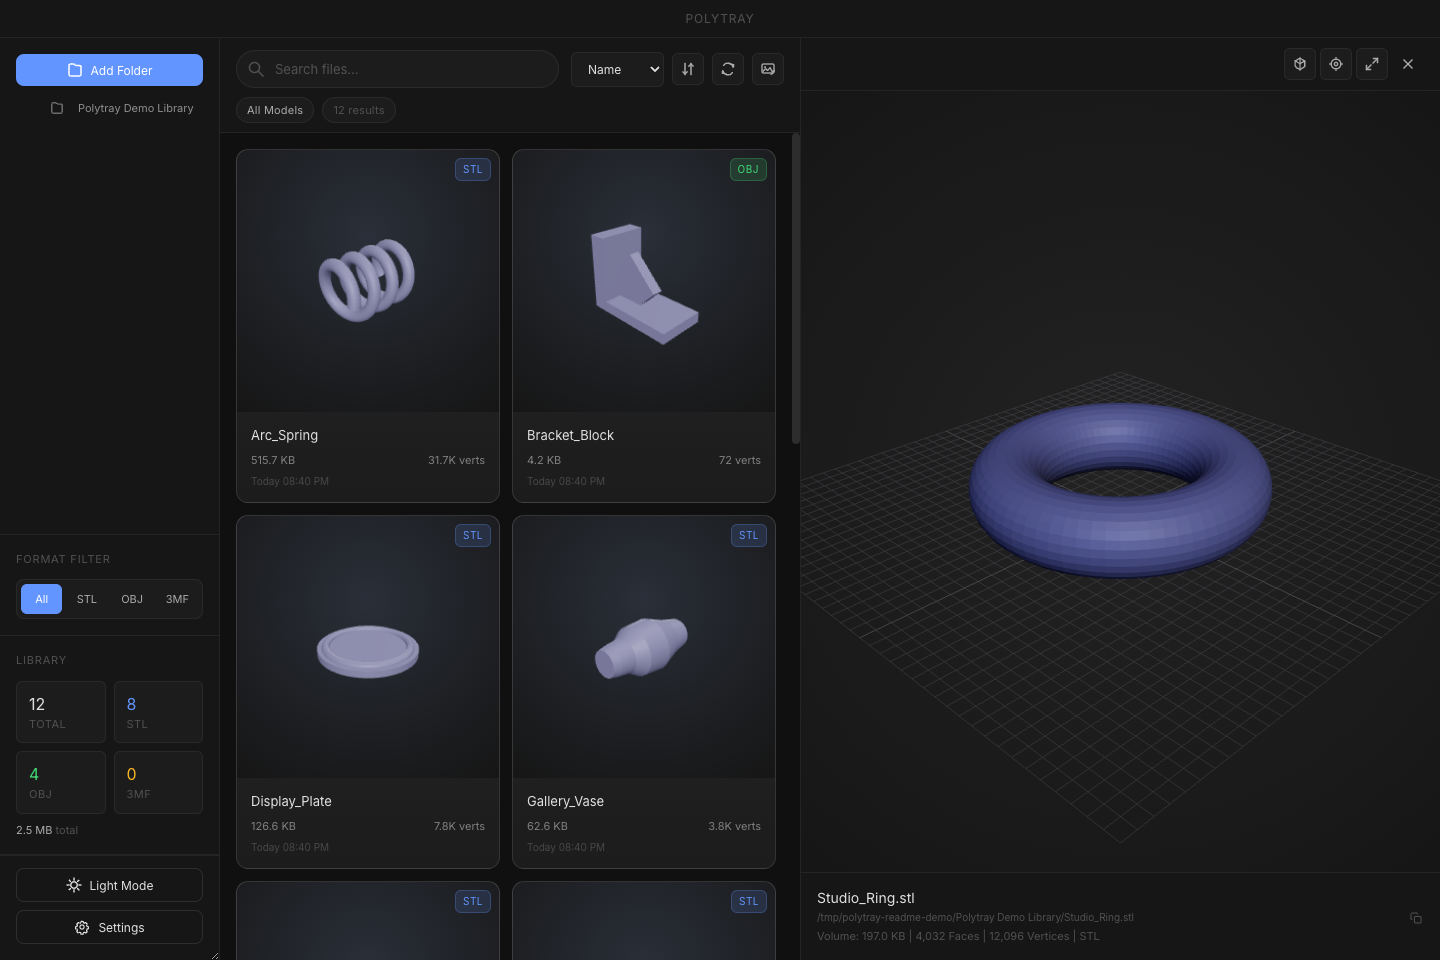
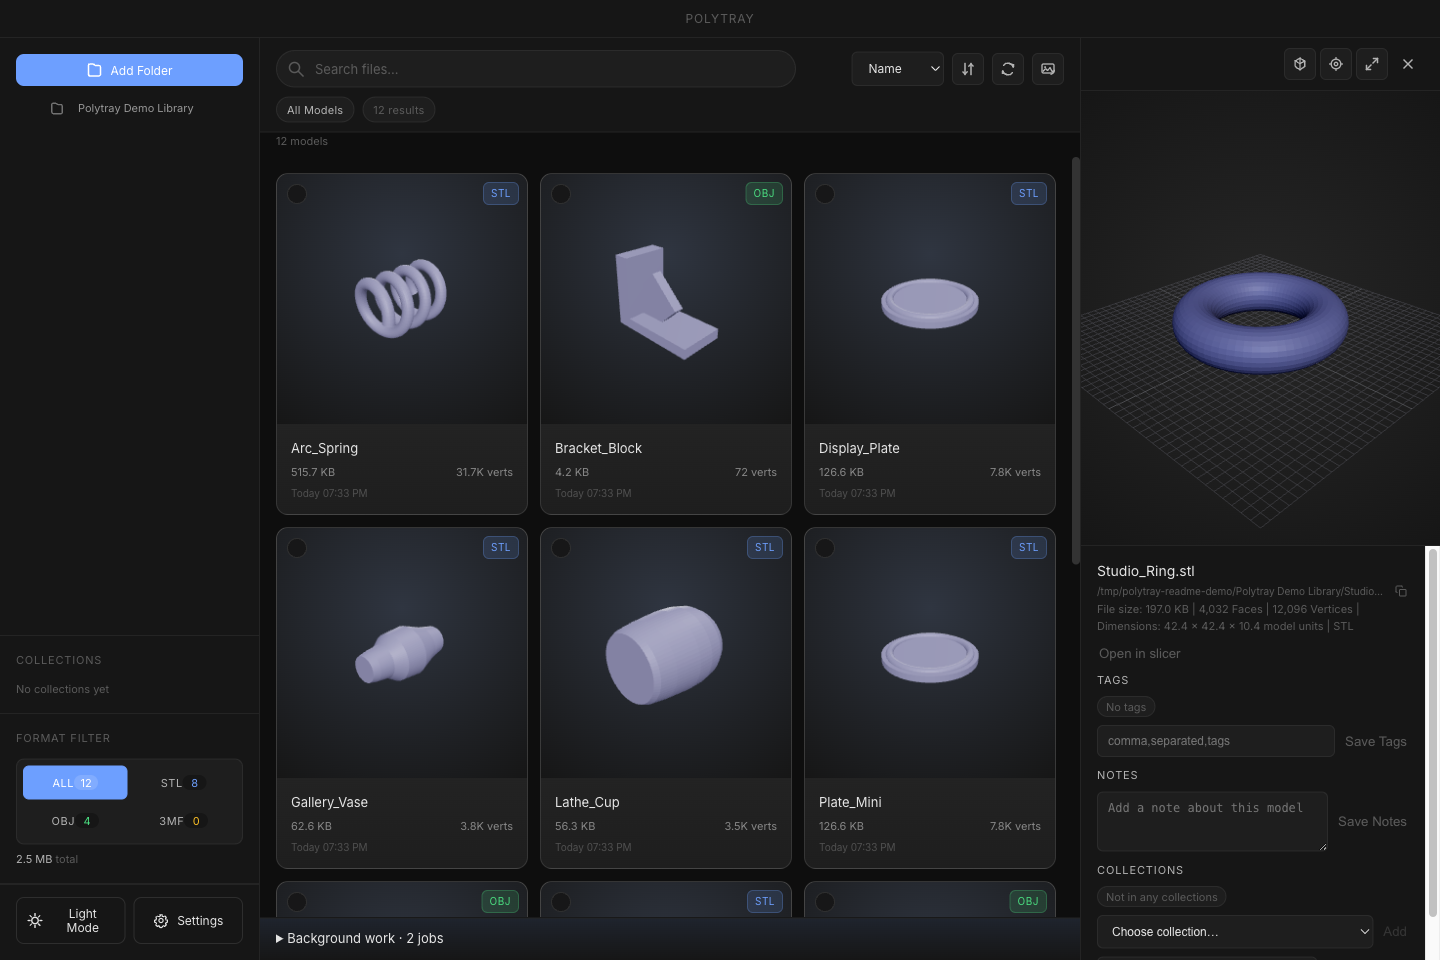
release: prepare Polytray 1.2.0 and refresh demo media

diff --git a/docs/release-notes/v1.2.0.md b/docs/release-notes/v1.2.0.md
@@ -1,0 +1,70 @@
+# Polytray v1.2.0
+
+This release makes large local model libraries more complete to browse, safer to
+maintain and easier to control. It adds background job controls, portable metadata
+backup and restore, and explicit handoff to a local slicer.
+
+## New workflows
+
+- **Background job controls:** inspect scan and thumbnail progress, pause or resume
+  supported jobs, cancel unfinished work, retry failures and dismiss finished jobs.
+  Discovery, indexing and thumbnail completion have separate progress indicators.
+- **Metadata backup and restore:** export annotations, collections, library roots
+  and supported preferences to a portable JSON file. Preview imports and conflicts
+  before applying them. Unmatched annotations remain pending for later matching.
+  Restore uses a recovery journal to complete interrupted committed changes.
+- **Local slicer handoff:** choose a local slicer or explicitly use the system
+  default. Open a selected supported model or an individual ZIP member, with clear
+  preparation and failure states.
+
+## Library browsing and scanning
+
+- Browse matching models beyond the previous first-page limit. Filtering, sorting,
+  collections, counts and archive grouping operate across the indexed library.
+- Preserve browsing position while scans add records, and avoid unnecessary
+  refreshes for unrelated thumbnail or annotation updates.
+- Show useful indexed results before a folder scan finishes. Metadata extraction
+  runs in a dedicated background process with bounded queues.
+- Retain indexed records when roots, subfolders or archives are unavailable.
+  Cancelling a scan keeps completed work and does not prune unseen files.
+- Reject stale scan and watcher updates so obsolete work cannot overwrite newer
+  file records or restore a removed record.
+
+## Thumbnails, previews and usability
+
+- Publish completed thumbnails progressively, regenerate missing cached images
+  and prevent outdated work from undoing a cache refresh or clear.
+- Give 3MF parsing a separate disposable renderer and transfer prepared geometry
+  through a dedicated bridge. Improve cancellation and resource cleanup, including
+  Linux preview-renderer shutdown.
+- Keep model geometry and the camera stable when annotations change. Render on
+  demand after interaction settles and pause viewer activity while minimized.
+- Improve measurement accuracy and labels: supported 3MF dimensions apply source
+  units and transforms; STL/OBJ dimensions remain in model units.
+- Improve small-window layouts, preview overlays, keyboard navigation across
+  virtualized pages and focus recovery after closing overlays.
+
+## Reliability
+
+- Harden indexed-file access, ZIP reads, short-read handling and revision checks.
+- Prevent Apply Import while a scan is active, paused or retrying, including raced
+  requests at the main-process boundary.
+- Retry brief Windows file locks when replacing restore journal records while
+  continuing to surface unrecoverable errors.
+- Improve isolated test fixtures, native-module rebuild sequencing and platform
+  CI coverage. The existing macOS signing/notarization process remains supported.
+
+## Notes and current limits
+
+- Metadata backups contain metadata, not source model files or thumbnail images.
+  Restoring library roots does not automatically scan or watch them.
+- SQLite operations still run in the main process; large scans or imports can
+  briefly affect responsiveness. Moving database work to an owned worker remains
+  planned work. This release does not claim that all performance targets are met.
+- File-access hardening does not eliminate every hostile concurrent filesystem
+  replacement race.
+- Collections, tagging, comparison, ZIP browsing and dimensions were already
+  available in v1.1.1; this release improves those existing workflows.
+
+See the [full comparison](https://github.com/cybermaak/polytray/compare/v1.1.1...v1.2.0)
+for changes since the previous release.
